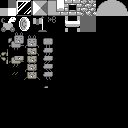
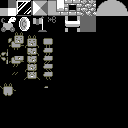
Better climbing animation for Luci

diff --git a/examples/LuciYFer/CHANGELOG.md b/examples/LuciYFer/CHANGELOG.md
@@ -74,6 +74,7 @@
     - If the whole 1[s] isn't wasted, a counter decrements
       - When 0, can fly again
     - If whole 1[s] is used, punishment is 3[s] not flying
+- Luci now climbs ladder with animation
 
 ## [18.10.2023]
 - Cleaning:
@@ -82,9 +83,6 @@
   - Move start screen function to start_screen.fab
 - Use CHR bank switching for `bg.png` and `font.png` (with `MapFab`)
 - Fer can run
-- Lucifer can run for certain amount of time 
-  - Flies ~2,5s
-  - After that, ~5
 
 ## [17.102023]
 - Add ladder for Luci (Not Fer)
